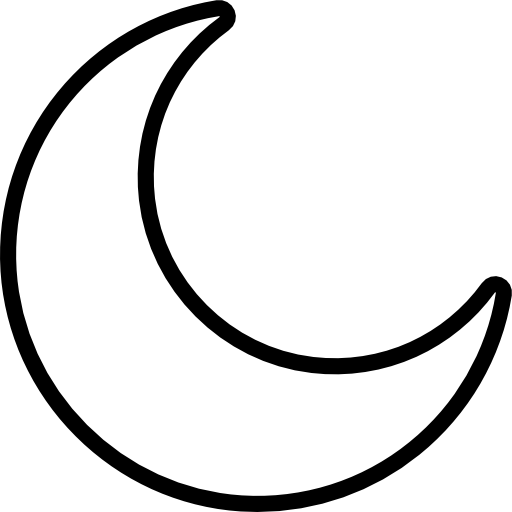
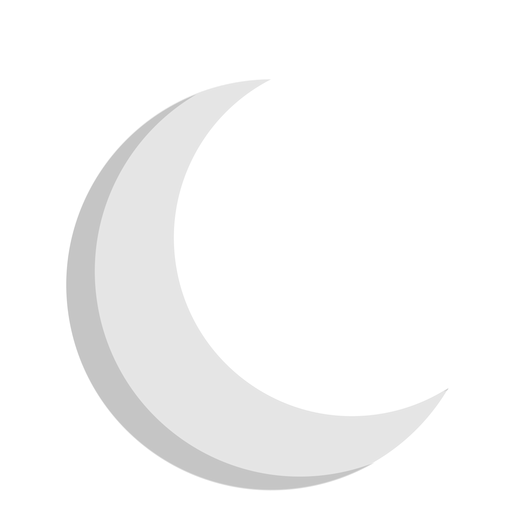
Adicionando efeito dark mode pelo javascript

diff --git a/css/style.css b/css/style.css
@@ -6,10 +6,15 @@ margin: 0px;}
 html
 {font-size: 62.5%;
 font-family: 'Open Sans', sans-serif;
-scroll-behavior: smooth;}
+scroll-behavior: smooth;
+transition: 500ms;}
 
 body
-{background-color: rgb(214, 214, 214);}
+{background-color: rgb(214, 214, 214);
+transition: 500ms;}
+
+input
+{display: none;}
 
 header
 {width: 100%;
@@ -25,6 +30,14 @@ padding-left: 150px;
 font-size: 3rem;}
 
 #moon-icon
+{position: absolute;
+width: 50px;
+height: 50px;
+right: 120px;
+top: 25px;
+display: none;}
+
+#sun-icon
 {position: absolute;
 width: 50px;
 height: 50px;
@@ -59,11 +72,18 @@ margin: 0 auto;}
 {width: 50%;
 height: 100%;}
 
-#vans-logo
+#vans-logo-ligth
 {width: 60%;
 height: auto;
 margin: 40px;
 margin-top: 50px;}
+
+#vans-logo-dark
+{width: 60%;
+height: auto;
+margin: 40px;
+margin-top: 50px;
+display: none;}
 
 #tenis
 {position: absolute;
@@ -110,3 +130,31 @@ background-color: rgb(58, 58, 58);}
 
 
 
+/*tema dark*/
+
+.dark, .dark header
+{background-color: rgb(17, 17, 21);
+color: white;}
+
+.dark section
+{background-color: rgb(34, 34, 34);}
+
+.dark #sun-icon
+{display: none;}
+
+.dark #moon-icon
+{display: block;}
+
+.dark #vans-logo-ligth
+{display: none;}
+
+.dark #vans-logo-dark
+{display: block;}
+
+.dark #tenis
+{margin-top: -105px;}
+
+.dark .comprar, .dark button
+{background-color: gray;
+color: black;
+font-weight: bold;}

diff --git a/index.html b/index.html
@@ -23,7 +23,9 @@
 
         <h1>Ligth and Dark</h1>
     
-        <img id="moon-icon" src="imgs/lua.png" alt="">
+        <input type="checkbox" id="dark-theme">
+        <label for="dark-theme"><img id="moon-icon" src="imgs/lua.png" alt=""></label>
+        <label for="dark-theme"><img id="sun-icon" src="imgs/solar.png" alt=""></label>
     
     </header>
 
@@ -31,7 +33,8 @@
 
         <div class="produto">
 
-            <img id="vans-logo" src="imgs/vnas-logo.png" alt="">
+            <img id="vans-logo-ligth" src="imgs/vnas-logo.png" alt="">
+            <img id="vans-logo-dark" src="imgs/vans-logo-branca.png" alt="">
 
             <img id="tenis" src="imgs/sk8 low.png" alt="">
 

diff --git a/media/media.css b/media/media.css
@@ -19,6 +19,12 @@
     right: 15px;
     top: 8px;}
 
+    #sun-icon
+    {width: 40px;
+    height: 40px;
+    right: 15px;
+    top: 8px;}
+
     .container
     {width: 100%;
     height: 65vh;
@@ -37,9 +43,15 @@
     .produto
     {text-align: center;}
 
-    #vans-logo
+    #vans-logo-ligth
     {width: 70%;
     margin: 0px;
+    margin-top: 50px;}
+
+    #vans-logo-dark
+    {width: 70%;
+    margin: 0px;
+    margin-left: 15%;
     margin-top: 50px;}
 
     #tenis
@@ -65,5 +77,10 @@
 
     .comprar button
     {padding: 10px;}
+
+    /*tema dark*/
+
+    .dark section
+    {background-color: rgb(17, 17, 17);}
 
 }

diff --git a/js/index.js b/js/index.js
@@ -1,8 +1,17 @@
 
-const moon = document.querySelector('#moon-icon'); 
+const mudarTema = document.querySelector('#dark-theme'); 
 
-moon.addEventListener('click', () => {
+function darkMode () {
 
-        moon.src = './imgs/solar.png'; 
+        document.body.classList.toggle('dark'); 
 
-})
+}
+
+mudarTema.addEventListener("click", () => {
+      
+        darkMode();
+
+}); 
+
+
+
